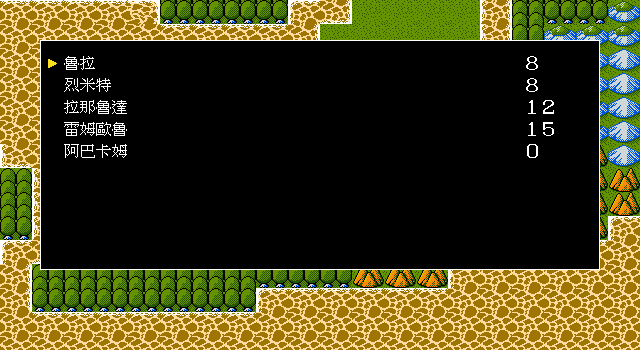
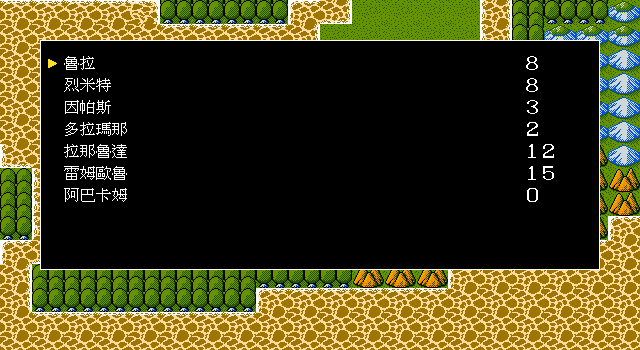
feat: restore Inpas and damage-floor spells

diff --git a/dq3_remake_ebitan/game/fieldspell_test.go b/dq3_remake_ebitan/game/fieldspell_test.go
@@ -5,6 +5,7 @@ import (
 	"reflect"
 	"testing"
 
+	"github.com/wicanr2/dq3_remake_ebitan/internal/dq3data"
 	"github.com/wicanr2/dq3_remake_ebitan/internal/stats"
 )
 
@@ -123,12 +124,146 @@ func TestRemittoOutsideDungeonStillSpends(t *testing.T) {
 	g := fieldSpellGame(t, 14)
 	g.inTown, g.curCty = false, -1
 	g.openFieldSpellMenu()
-	g.fieldSpell.cursor = 1
+	g.fieldSpell.cursor = fieldSpellChoiceIndex(g, fieldRemitto)
 	mp0 := g.heroMP
 	g.fieldSpellInput(InputState{Confirm: true, DirHeld: -1, DirEdge: -1})
 	if g.heroMP != mp0-8 || g.fieldSpell.active {
 		t.Fatalf("迷宮外烈米特被 handler 拒絕，但原版 caster 已扣 MP：mp=%d active=%v",
 			g.heroMP, g.fieldSpell.active)
+	}
+}
+
+func fieldSpellChoiceIndex(g *Game, rec int) int {
+	for i, c := range g.fieldSpell.choices {
+		if c.rec == rec {
+			return i
+		}
+	}
+	return -1
+}
+
+func placeFacingEventType(t *testing.T, g *Game, cty, sec, wantType int) {
+	t.Helper()
+	sc, err := loadTownSceneSec(g.assets, g.worldPal, g.manBLS,
+		cty, mapBlkNum[cty], sec, 0, g.storyFlag)
+	if err != nil {
+		t.Fatal(err)
+	}
+	for y := 0; y < sc.h; y++ {
+		for x := 0; x < sc.w; x++ {
+			ev, _, ok := sc.tileEvent(x, y)
+			if !ok || ev[0] != wantType {
+				continue
+			}
+			for d := 0; d < 4; d++ {
+				dx, dy := dirDelta(d)
+				px, py := x-dx, y-dy
+				if px < 0 || py < 0 || px >= sc.w || py >= sc.h || sc.Blocked(px, py) {
+					continue
+				}
+				g.cur, g.town, g.inTown, g.curCty = sc, sc, true, cty
+				g.px, g.py, g.facing = px, py, d
+				return
+			}
+		}
+	}
+	t.Fatalf("CTY%02d sec%d 找不到可面向的 type%d 事件", cty, sec, wantType)
+}
+
+func TestInpasOriginalEventTypeRecordsAndMP(t *testing.T) {
+	tests := []struct {
+		name          string
+		cty, sec, typ int
+		wantRec       int
+	}{
+		{"ordinary treasure", 0, 5, 1, 0xfd},
+		{"type2 warp", 14, 0, 2, 0xfe},
+	}
+	for _, tt := range tests {
+		t.Run(tt.name, func(t *testing.T) {
+			g := fieldSpellGame(t, 1)
+			mage := newMember(nil, 4, 0, stats.ExpForLevel(4, 18))
+			mage.CurMP = 99
+			g.companions = []*Member{mage}
+			placeFacingEventType(t, g, tt.cty, tt.sec, tt.typ)
+			g.openFieldSpellMenu()
+			idx := fieldSpellChoiceIndex(g, fieldInpas)
+			if idx < 0 {
+				t.Fatalf("Lv18 魔法使的場景咒文清單缺 rec174：%+v", g.fieldSpell.choices)
+			}
+			g.fieldSpell.cursor = idx
+			g.fieldSpellInput(InputState{Confirm: true, DirHeld: -1, DirEdge: -1})
+			if mage.CurMP != 96 || !g.dlg.open ||
+				!reflect.DeepEqual(g.dlg.buf, g.shop.nameText.Record(tt.wantRec)) {
+				t.Fatalf("因帕斯 type%d 應扣3 MP並顯示 rec%d：mp=%d open=%v",
+					tt.typ, tt.wantRec, mage.CurMP, g.dlg.open)
+			}
+		})
+	}
+}
+
+func TestInpasInvalidSceneStillSpendsAndShowsFailure(t *testing.T) {
+	g := fieldSpellGame(t, 1)
+	mage := newMember(nil, 4, 0, stats.ExpForLevel(4, 18))
+	mage.CurMP = 99
+	g.companions = []*Member{mage}
+	g.inTown, g.curCty = false, -1
+	g.openFieldSpellMenu()
+	g.fieldSpell.cursor = fieldSpellChoiceIndex(g, fieldInpas)
+	g.fieldSpellInput(InputState{Confirm: true, DirHeld: -1, DirEdge: -1})
+	if mage.CurMP != 96 || !g.dlg.open ||
+		!reflect.DeepEqual(g.dlg.buf, g.shop.nameText.Record(0x15a)) {
+		t.Fatalf("因帕斯無事件仍應先扣3 MP再顯示 rec346：mp=%d open=%v",
+			mage.CurMP, g.dlg.open)
+	}
+}
+
+func TestToramanaOriginalCostAndOneHazardRegionContract(t *testing.T) {
+	g := fieldSpellGame(t, 1)
+	mage := newMember(nil, 4, 0, stats.ExpForLevel(4, 19))
+	mage.CurMP, mage.CurHP = 99, 50
+	g.companions = []*Member{mage}
+	g.openFieldSpellMenu()
+	idx := fieldSpellChoiceIndex(g, fieldToramana)
+	if idx < 0 {
+		t.Fatalf("Lv19 魔法使的場景咒文清單缺 rec175：%+v", g.fieldSpell.choices)
+	}
+	g.fieldSpell.cursor = idx
+	g.fieldSpellInput(InputState{Confirm: true, DirHeld: -1, DirEdge: -1})
+	if mage.CurMP != 97 || !g.toramana || g.hazardGuard || g.fieldSpell.active {
+		t.Fatalf("多拉瑪那應扣2 MP並設原版0x2000：mp=%d toramana=%v guard=%v active=%v",
+			mage.CurMP, g.toramana, g.hazardGuard, g.fieldSpell.active)
+	}
+
+	attr := &dq3data.BlockAttr{A: []uint16{0x0400}} // AH&4 → 原版 10 damage 類
+	g.cur = &Scene{w: 1, h: 1, tileAt: func(_, _ int) int { return 0 }, attr: attr}
+	g.px, g.py, g.heroHP, mage.CurHP = 0, 0, 50, 50
+	g.applyHazardStep()
+	if g.heroHP != 50 || mage.CurHP != 50 || g.toramana || !g.hazardGuard {
+		t.Fatalf("第一次高傷地板應把0x2000轉0x0400且免傷：hp=%d/%d toramana=%v guard=%v",
+			g.heroHP, mage.CurHP, g.toramana, g.hazardGuard)
+	}
+	g.applyHazardStep()
+	if g.heroHP != 50 || mage.CurHP != 50 {
+		t.Fatalf("同一段連續傷害地板應持續免傷：hp=%d/%d", g.heroHP, mage.CurHP)
+	}
+	attr.A[0] = 0
+	g.applyHazardStep()
+	if g.hazardGuard {
+		t.Fatal("離開傷害地板後原版0x0400 guard應清除")
+	}
+	attr.A[0] = 0x0400
+	g.applyHazardStep()
+	if g.heroHP != 40 || mage.CurHP != 40 {
+		t.Fatalf("重新踏入高傷地板應全隊各受10傷：hp=%d/%d", g.heroHP, mage.CurHP)
+	}
+
+	g.heroHP, mage.CurHP, g.toramana = 50, 50, true
+	attr.A[0] = 0x0100 // AH&1 分支早於多拉瑪那檢查
+	g.applyHazardStep()
+	if g.heroHP != 49 || mage.CurHP != 49 || !g.toramana {
+		t.Fatalf("AH&1 類仍應受1傷且不消耗0x2000：hp=%d/%d toramana=%v",
+			g.heroHP, mage.CurHP, g.toramana)
 	}
 }
 
@@ -140,7 +275,7 @@ func TestFieldSpellOriginalMapFlagsAndCosts(t *testing.T) {
 	g.enterTownCty(8) // CTY08 sec0 header+0x10 == 2：烈米特可、魯拉不可
 	g.openFieldSpellMenu()
 	mp0 := g.heroMP
-	g.fieldSpell.cursor = 0
+	g.fieldSpell.cursor = fieldSpellChoiceIndex(g, fieldRura)
 	g.fieldSpellInput(InputState{Confirm: true, DirHeld: -1, DirEdge: -1})
 	if g.fieldSpell.dest || g.heroMP != mp0-8 || g.fieldSpell.active {
 		t.Fatalf("mapFlags bit0 清時魯拉 handler 拒絕，但 caster 已扣 MP：dest=%v mp=%d active=%v",
@@ -149,14 +284,14 @@ func TestFieldSpellOriginalMapFlagsAndCosts(t *testing.T) {
 
 	g.exitTown()
 	g.openFieldSpellMenu()
-	g.fieldSpell.cursor = 2 // 特黑洛斯
+	g.fieldSpell.cursor = fieldSpellChoiceIndex(g, fieldToheros)
 	g.fieldSpellInput(InputState{Confirm: true, DirHeld: -1, DirEdge: -1})
 	if g.repel != 0x28 || g.heroMP != mp0-12 {
 		t.Fatalf("特黑洛斯應依 handler 設 40 步並扣 4 MP：repel=%d mp=%d", g.repel, g.heroMP)
 	}
 
 	g.openFieldSpellMenu()
-	g.fieldSpell.cursor = 3 // 拉那魯達
+	g.fieldSpell.cursor = fieldSpellChoiceIndex(g, fieldRanaruta)
 	g.fieldSpellInput(InputState{Confirm: true, DirHeld: -1, DirEdge: -1})
 	if !g.isNight() || g.heroMP != mp0-12 || mage.CurMP != 87 {
 		t.Fatalf("地表拉那魯達應由魔法使扣 12 MP：night=%v heroMP=%d mageMP=%d",
@@ -171,7 +306,7 @@ func TestRanarutaInTownStillSpends(t *testing.T) {
 	g.companions = []*Member{mage}
 	g.enterTownCty(0)
 	g.openFieldSpellMenu()
-	g.fieldSpell.cursor = 3
+	g.fieldSpell.cursor = fieldSpellChoiceIndex(g, fieldRanaruta)
 	mp0 := g.heroMP
 	g.fieldSpellInput(InputState{Confirm: true, DirHeld: -1, DirEdge: -1})
 	if g.heroMP != mp0 || mage.CurMP != 87 || g.fieldSpell.active {

diff --git a/dq3_remake_ebitan/game/fieldspell.go b/dq3_remake_ebitan/game/fieldspell.go
@@ -8,6 +8,8 @@ import (
 const (
 	fieldRura     = 172 // 魯拉
 	fieldRemitto  = 173 // 烈米特
+	fieldInpas    = 174 // 因帕斯
+	fieldToramana = 175 // 多拉瑪那
 	fieldToheros  = 176 // 特黑洛斯
 	fieldRanaruta = 177 // 拉那魯達
 	fieldRemoaru  = 178 // レムオル（透明）
@@ -23,6 +25,8 @@ type fieldSpellDef struct {
 var fieldSpellDefs = [...]fieldSpellDef{
 	{fieldRura, spell.MPCost(fieldRura)},
 	{fieldRemitto, spell.MPCost(fieldRemitto)},
+	{fieldInpas, spell.MPCost(fieldInpas)},
+	{fieldToramana, spell.MPCost(fieldToramana)},
 	{fieldToheros, spell.MPCost(fieldToheros)},
 	{fieldRanaruta, spell.MPCost(fieldRanaruta)},
 	{fieldRemoaru, spell.MPCost(fieldRemoaru)},
@@ -205,6 +209,28 @@ func (g *Game) fieldSpellInput(in InputState) {
 		}
 		g.exitTown()
 		m.active = false
+	case fieldInpas:
+		// handler file 0xe13b 將 examine mode 設 2，使 file 0x9cf6 只回傳
+		// 面向事件表的 type byte而不執行。type2→rec254，其餘合法 type→rec253；
+		// 無事件／非 CTY 則走共通失敗 rec346 (0x15a)。
+		typ, ok := g.inpasFacingType()
+		switch {
+		case !ok:
+			g.dlg.OpenFrom(g.shop.nameText, 0x15a)
+		case typ == 2:
+			g.dlg.OpenFrom(g.shop.nameText, 0xfe)
+		default:
+			g.dlg.OpenFrom(g.shop.nameText, 0xfd)
+		}
+		m.active = false
+	case fieldToramana:
+		// handler file 0xe18c：設 world flag 0x2000、timer 0x28。原版一般
+		// timer consumer 卻檢查 0x0200；真正 consumer 是傷害地板 file
+		// 0x197a8，第一次遇到 AH&0x0c 時把 0x2000 轉成 0x0400，
+		// 離開該段地板後清除。保留這個精訊版一次性連續區行為。
+		g.toramana = true
+		g.hazardGuard = false
+		m.active = false
 	case fieldToheros:
 		g.repel = 0x28 // handler file 0xe19c 寫 [0x52f6]=0x28
 		m.active = false
@@ -236,11 +262,69 @@ func (g *Game) fieldSpellInput(in InputState) {
 	}
 }
 
+func (g *Game) inpasFacingType() (int, bool) {
+	if !g.inTown || g.cur == nil {
+		return 0, false
+	}
+	x, y := frontTile(g.px, g.py, g.facing)
+	ev, subid, ok := g.cur.tileEvent(x, y)
+	if !ok {
+		return 0, false
+	}
+	// 原版正常 examine 會清 tile 的低 5-bit event id。Go 版目前以一次性
+	// treasure flag 保存已取狀態，因此在 Inpas read-only path 補同等 gate。
+	if t := treasureFor(g.curCty, g.cur.sec, subid); t != nil && g.flags[t[5]] {
+		return 0, false
+	}
+	return ev[0], true
+}
+
 // advanceFieldSpellStep 對齊原版成功移動後的暫態效果 consumer。撞牆或 modal frame
 // 不算一步；城鎮與地表都會進入 file 0xa8a0 的 common movement-status routine。
 func (g *Game) advanceFieldSpellStep() {
 	if g.remoaru > 0 {
 		g.remoaru--
+	}
+}
+
+// applyHazardStep 對齊原版 movement-status file 0x195ec..0x1980f。
+// tile attr 高 byte低 nibble：
+//
+//	bits0..1 → 全隊 1..3 傷害，多拉瑪那不保護；
+//	bits2..3 → 全隊 10/20/30 傷害，0x2000 多拉瑪那轉成 0x0400 連續區 guard；
+//	無 hazard → 清 0x0400 guard。
+func (g *Game) applyHazardStep() {
+	if g.cur == nil || g.cur.attr == nil {
+		g.hazardGuard = false
+		return
+	}
+	ah := byte(g.cur.attr.Raw(g.cur.tileIdx(g.px, g.py)) >> 8)
+	damage := 0
+	switch {
+	case ah&0x03 != 0:
+		damage = int(ah & 0x03)
+	case ah&0x0c != 0:
+		if g.hazardGuard {
+			return
+		}
+		if g.toramana {
+			g.toramana = false
+			g.hazardGuard = true
+			return
+		}
+		damage = int(ah>>2) * 10
+	default:
+		g.hazardGuard = false
+		return
+	}
+	if damage <= 0 {
+		return
+	}
+	g.heroHP = max0(g.heroHP - damage)
+	for _, m := range g.companions {
+		if m.CurHP > 0 {
+			m.CurHP = max0(m.CurHP - damage)
+		}
 	}
 }
 

diff --git a/dq3_remake_ebitan/game/game.go b/dq3_remake_ebitan/game/game.go
@@ -285,6 +285,8 @@ type Game struct {
 	shipX, shipY    int           // 船停泊位置(地表)
 	repel           int           // 聖水驅敵剩餘步數(>0 期間地表不遇弱敵,每步遞減)
 	remoaru         int           // レムオル透明剩餘有效移動步數；原版 [0x52f7]，施放設 25
+	toramana        bool          // 多拉瑪那原版 world flag 0x2000；遇高傷害地板後轉 hazardGuard
+	hazardGuard     bool          // 原版 world flag 0x0400；只在同一段連續高傷害地板維持
 	prng            rng.RNG       // 祈禱之戒損壞判定用 RNG
 	lotoBlessed     bool          // 破索瑪後洛特冊封(勇者裝備昇華為傳說的洛特裝備)
 	cleared         bool          // 已破關(索瑪擊破)
@@ -947,6 +949,7 @@ func (g *Game) step(in InputState) error {
 	}
 	if moved {
 		g.advanceFieldSpellStep()
+		g.applyHazardStep()
 	}
 	if moved && g.inTown { // 城內:踩到轉場格(門/階梯/出城)→ 切 section / 跨 CTY / 出城
 		g.tryTransition()

diff --git a/dq3_remake_ebitan/game/save.go b/dq3_remake_ebitan/game/save.go
@@ -110,6 +110,7 @@ func (g *Game) restore(s saveState) {
 	// Go 冒險之書不保存暫態場景咒文 timer；restore 必須清掉同一 Game instance
 	// 載入前的透明效果。原版 save 是否序列化這類 timer 仍需獨立 RE。
 	g.remoaru = 0
+	g.toramana, g.hazardGuard = false, false
 	g.heroExp, g.heroHP, g.heroMP, g.heroStat, g.heroGold =
 		s.HeroExp, s.HeroHP, s.HeroMP, s.HeroStat, s.HeroGold
 	g.heroName, g.heroGender = append([]int(nil), s.HeroName...), s.HeroGender

diff --git a/docs/78-field-spell-re.md b/docs/78-field-spell-re.md
@@ -32,6 +32,8 @@
 |---|---|---:|---|---|
 | 172 | 魯拉 | 8 | `0xe0da` | 地表可用；CTY 需 section header `+0x10 bit0`，再進共用 20 城選單 |
 | 173 | 烈米特 | 8 | `0xe10c` | 必須在 CTY scene 且 header `+0x10 bit1`，成功後回地表 remembered position |
+| 174 | 因帕斯 | 3 | `0xe13b` | CTY 面向事件：type2→rec254，其餘 type→rec253；非事件→rec346 |
+| 175 | 多拉瑪那 | 2 | `0xe18c` | 設 `0x2000`；保護第一次踏入的同一段 `AH&0x0c` 傷害地板 |
 | 176 | 特黑洛斯 | 4 | `0xe19c` | 設世界 repel flag，`[0x52f6]=0x28`（40 步） |
 | 177 | 拉那魯達 | 12 | `0xe1ab` | CTY scene 內拒絕；地表切換 day/night state 並重載 palette |
 | 178 | 雷姆歐魯 | 15 | `0xe1df` | 設 world flag `0x8000`、`[0x52f7]=0x19`（25 個有效移動步） |
@@ -45,11 +47,25 @@ world flags `0xc000`。目前為靜態資料流與 Go production-input 回歸（
 8 格的連續門片；非 CTY、面向非門或其他失敗會顯示 D3TXT00 rec `0x15a`。Ebiten 已接
 0 MP 全門權限、相鄰門片 mutation 與全域失敗訊息。
 
+因帕斯會把 examine mode `[0x0b5d]` 暫設 2；file `0x9cf6` 因而在讀出事件表
+`{type,param,flag}` 後立即返回 `bp=type`，不開箱、不傳送。精訊版 D3TXT00 的 rec253
+實際是存檔詢問，rec254 只有變數控制碼，並不是可由 FC 版常識代換的「藍／紅」台詞；
+Ebiten 保留這兩筆原始 record。handler 另以 `[0x25d3]=3/1` 呼叫色彩效果
+file `0x10305`，該動畫尚未接，因此目前 D2／V1。
+
+多拉瑪那的 handler 雖同時寫 `[0x52f8]=0x28`，一般 movement timer consumer
+file `0xa91c` 卻檢查 world bit `0x0200`，不是 handler 寫入的 `0x2000`。真正 consumer
+file `0x197a8` 在 tile attr 高 byte符合 `AH&0x0c` 時，將 `0x2000` 清掉並轉成
+guard `0x0400`；離開 hazard 後 guard 即清，因此只保護第一次踏入的同一段連續區域。
+`AH&0x03` 分支在檢查多拉瑪那前就造成全隊 1–3 傷害。Ebiten 依此保留精訊版行為，
+未擅自改成 FC 式持續免疫。
+
 ## 尚未證實／尚未完成（不得標 faithful）
 
 - handler 中 `0xd75`、world flag `0x4f46 bit0x80` 等較少見魯拉禁止狀態，Ebiten 尚無
   一一對應的世界狀態欄位。
-- 因帕斯、托拉瑪那與帕爾普恩特尚未完整接入 Ebiten 選單。
+- 帕爾普恩特尚未接入 Ebiten 選單；16 項 effect table 仍須逐項追通。
+- 因帕斯缺原版 `[0x25d3] → 0x10305` 色彩動畫，不能只因 record 分支已接就標 V3。
 - 原版冒險之書是否保存 `[0x4f46]/[0x52f7]` 這類暫態場景咒文狀態尚未追完；Go save
   目前明確視為 runtime-only，讀檔會清除雷姆歐魯 timer。
 - 拉那魯達的四相位 clock 與原版二值 `[0x526c]` 的逐步映射仍需 DOSBox 對拍。
@@ -59,7 +75,7 @@ world flags `0xc000`。目前為靜態資料流與 Go production-input 回歸（
 1. 保存 IDB，不再每輪只產生孤立的線性 disassembly。
 2. 將 `0x1c9ee/0x1cb3c/0xe0da/0xe10c`、`0x37c3/0x38cc`、`0x0ac0/0x506a`
    命名，建立 caller/xref。
-3. 續追 rec174/175/180 的 field handler 與可見副作用；rec178/179 補 DOSBox 同狀態驗證。
+3. 續追 rec180 的 16 項 field effect；rec174/175/178/179 補 DOSBox 同狀態驗證。
 4. 每個結論記錄 writer → table → consumer → 可見副作用；只有完整鏈才升 D3。
 5. 用 DOSBox 同狀態輸入作最終仲裁，再鎖 production-input 與 save/load 測試。
 

diff --git a/docs/74-ebiten-remake-completion-plan.md b/docs/74-ebiten-remake-completion-plan.md
@@ -473,12 +473,13 @@ R-2 可在 P1/P2 同期作獨立功能切片，但不得因它的 spec 已齊就
 1. [x] 修正共通 caster：MP 足夠後、effect handler 前立即扣除；取消魯拉目的地或場景
    gate 失敗不退款。既有取消／失敗測試已更新。
 2. 為 rec174／175／178／179／180 建逐項 ledger：descriptor、handler、writer、timer／flag
-   consumer、訊息 record、玩家可見結果。
+   consumer、訊息 record、玩家可見結果。rec174／175／178／179 已建立；rec180 待完成。
 3. [x] 先落地證據鏈完整者：
    - rec178／Remoaru：15 MP、25 個成功移動步的隱形狀態與 renderer consumer。
    - 阿巴卡姆：0 MP、面向門的 tier-4 權限、3×3 連續門片 mutation 與失敗 rec `0x15a`。
-4. 因帕斯須先確認寶箱回傳型別與 rec253／254 顏色語意；托拉瑪那須先釐清
-   `0x2000` writer 與傷害地板 consumer；帕爾普恩特須解完 16 項跳表。未追通前不做猜測版。
+4. [x] 因帕斯已確認 `bp=event type` 與原始 rec253／254；多拉瑪那已追通 `0x2000`
+   writer、`0x0400` 連續區 guard 與兩類傷害地板 consumer。因帕斯色彩動畫仍為 V-gap。
+   帕爾普恩特須解完 16 項跳表，未追通前不做猜測版。
 5. [x] 對本批落地咒文加入 production menu、正常輸入、MP／timer／restore 測試，重產並
    目視檢查 `dq3_remake_ebitan/docs/field_spell_menu.png`。原版暫態 timer 的 save 格式仍
    待 RE，不把 Go runtime-only policy 冒充原版契約。
